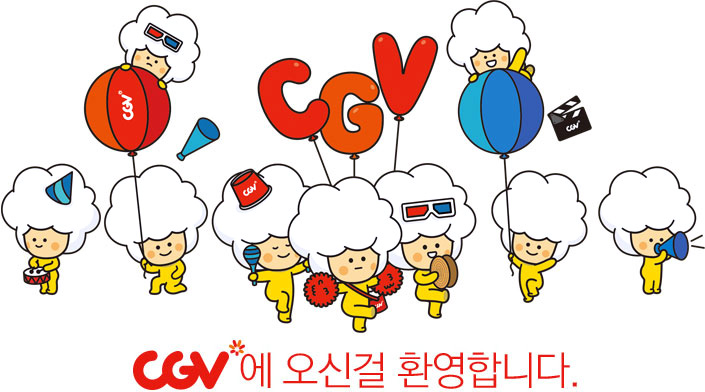
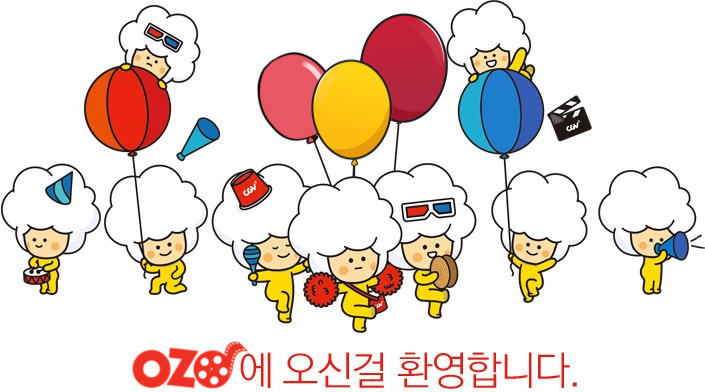
Minkyu

diff --git a/index.html b/index.html
@@ -272,7 +272,7 @@
                                 </div>
                             </div>
                             <div class="movie_info_wrap">
-                                <strong class="movieName">LE SSERAFIM COMEBACK SHOW - UNFORGIVEN in CGV</strong>
+                                <strong class="movieName">LE SSERAFIM COMEBACK SHOW - UNFORGIVEN in OZO</strong>
                                 <span>
                                     <img src="./img/eggGoldenegggreat.png" alt="Golden Egg great">
                                     ?
@@ -713,7 +713,7 @@
                                         <img src="./img/골드클래스.jpg" alt="CGV 골드클래스">
                                     </div>
                                     <div class="giftcon_info_wrap">
-                                        <span>CGV 골드클래스</span>
+                                        <span>OZO 골드클래스</span>
                                         <strong>40,000원</strong>
                                     </div>
                                 </a>
@@ -724,7 +724,7 @@
                                         <img src="./img/CGV영화관람권.jpg" alt="CGV 영화관람권">
                                     </div>
                                     <div class="giftcon_info_wrap">
-                                        <span>CGV 영화관람권</span>
+                                        <span>OZO 영화관람권</span>
                                         <strong>13,000원</strong>
                                     </div>
                                 </a>
@@ -793,7 +793,7 @@
                     <div id="noticeClient_content">
                         <div id="notice_wrap">
                             <strong>공지사항</strong>
-                            <a href="#" class="btn_link">[극장][전주고사]'24회 전주국제영화제' 대관으로 인한 CGV 프로그램 미운영 안내 </a>
+                            <a href="#" class="btn_link">[극장][전주고사]'24회 전주국제영화제' 대관으로 인한 OZO 프로그램 미운영 안내 </a>
                             <a href="#" id="notice_more" class="btn_more">더보기</a>
                         </div>
                         <div id="client_wrap">
@@ -818,7 +818,7 @@
                     </div>
                     <div id="qr_wrap">
                         <strong>앱 다운로드</strong>
-                        <span>CGV앱에서 더 편리하게 이용하세요</span>
+                        <span>OZO앱에서 더 편리하게 이용하세요</span>
                         <div class="img_wrap">
                             <img src="./img/img_qrcode.gif" alt="QR CODE">
                         </div>

diff --git a/event_4.html b/event_4.html
@@ -83,7 +83,7 @@
                     <li><a href="event_1.html">SPECIAL</a></li>
                     <li><a href="event_2.html">영화/예매</a></li>
                     <li><a href="event_3.html">멤버십/CLUB</a></li>
-                    <li><a href="event_4.html" style="color:rgb(255, 60, 0)">CGV 극장별</a></li>
+                    <li><a href="event_4.html" style="color:rgb(255, 60, 0)">OZO 극장별</a></li>
                     <li><a href="event_5.html">제휴/할인</a></li>
                 </ul>
                 <div id="submenu">
@@ -109,7 +109,7 @@
                                 <img src="img/event/cgv/evt-thum1.jpg" alt="">
                             </div>
                             <div id="evt-desc">
-                                <p>[CGV인천가정]
+                                <p>[OZO인천가정]
                                     사이트 오픈 프로모션</p>
                                 <p>2023.01.01~2023.12.31</p>
                             </div>
@@ -121,7 +121,7 @@
                                 <img src="img/event/cgv/evt-thum2.jpg" alt="">
                             </div>
                             <div id="evt-desc">
-                                <p>[CGV김포] 오픈 2주년
+                                <p>[OZO김포] 오픈 2주년
                                     고객 감사 프로모션</p>
                                 <p>2023.01.01~2023.12.31</p>
                             </div>
@@ -133,7 +133,7 @@
                                 <img src="img/event/cgv/evt-thum3.jpg" alt="">
                             </div>
                             <div id="evt-desc">
-                                <p>[CGV고양백석] 사이트
+                                <p>[OZO고양백석] 사이트
                                     오픈 프로모션</p>
                                 <p>2023.01.01~2023.12.31</p>
                             </div>
@@ -193,7 +193,7 @@
                             </div>
                             <div id="evt-desc">
                                 <p>모바일문화상품권
-                                    CGV에서 사용하는 방법!</p>
+                                    OZO에서 사용하는 방법!</p>
                                 <p>2023.01.01~2023.12.31</p>
                             </div>
                         </a>

diff --git a/event_3.html b/event_3.html
@@ -83,7 +83,7 @@
                     <li><a href="event_1.html">SPECIAL</a></li>
                     <li><a href="event_2.html">영화/예매</a></li>
                     <li><a href="event_3.html" style="color:rgb(255, 60, 0)">멤버십/CLUB</a></li>
-                    <li><a href="event_4.html">CGV 극장별</a></li>
+                    <li><a href="event_4.html">OZO 극장별</a></li>
                     <li><a href="event_5.html">제휴/할인</a></li>
                 </ul>
                 <div id="submenu">
@@ -101,7 +101,7 @@
                                 <img src="img/event/membership/evt-thum1.jpg" alt="">
                             </div>
                             <div id="evt-desc">
-                                <p>CGV X 우리카드 PLCC 출시!</p>
+                                <p>OZO X 우리카드 PLCC 출시!</p>
                                 <p>2023.01.01~2023.12.31</p>
                             </div>
                         </a>
@@ -112,7 +112,7 @@
                                 <img src="img/event/membership/evt-thum2.jpg" alt="">
                             </div>
                             <div id="evt-desc">
-                                <p>CGV우리카드 이용 시
+                                <p>OZO우리카드 이용 시
                                     캐시백 10만원 지급!</p>
                                 <p>2023.01.01~2023.12.31</p>
                             </div>
@@ -184,7 +184,7 @@
                             </div>
                             <div id="evt-desc">
                                 <p>모바일문화상품권
-                                    CGV에서 사용하는 방법!</p>
+                                    OZO에서 사용하는 방법!</p>
                                 <p>2023.01.01~2023.12.31</p>
                             </div>
                         </a>

diff --git a/event_5.html b/event_5.html
@@ -83,7 +83,7 @@
                     <li><a href="event_1.html">SPECIAL</a></li>
                     <li><a href="event_2.html">영화/예매</a></li>
                     <li><a href="event_3.html">멤버십/CLUB</a></li>
-                    <li><a href="event_4.html">CGV 극장별</a></li>
+                    <li><a href="event_4.html">OZO 극장별</a></li>
                     <li><a href="event_5.html" style="color:rgb(255, 60, 0)">제휴/할인</a></li>
                 </ul>
                 <div id="submenu">
@@ -101,7 +101,7 @@
                                 <img src="img/event/discount/evt-thum1.jpg" alt="">
                             </div>
                             <div id="evt-desc">
-                                <p>CGV X 우리카드 PLCC 출시!</p>
+                                <p>OZO X 우리카드 PLCC 출시!</p>
                                 <p>2023.01.01~2023.12.31</p>
                             </div>
                         </a>
@@ -112,7 +112,7 @@
                                 <img src="img/event/discount/evt-thum2.jpg" alt="">
                             </div>
                             <div id="evt-desc">
-                                <p>CGV우리카드 이용 시
+                                <p>OZO우리카드 이용 시
                                     캐시백 10만원 지급!</p>
                                 <p>2023.01.01~2023.12.31</p>
                             </div>
@@ -184,7 +184,7 @@
                             </div>
                             <div id="evt-desc">
                                 <p>모바일문화상품권
-                                    CGV에서 사용하는 방법!</p>
+                                    OZO에서 사용하는 방법!</p>
                                 <p>2023.01.01~2023.12.31</p>
                             </div>
                         </a>

diff --git a/event_2.html b/event_2.html
@@ -83,7 +83,7 @@
                     <li><a href="event_1.html">SPECIAL</a></li>
                     <li><a href="event_2.html" style="color:rgb(255, 60, 0)">영화/예매</a></li>
                     <li><a href="event_3.html">멤버십/CLUB</a></li>
-                    <li><a href="event_4.html">CGV 극장별</a></li>
+                    <li><a href="event_4.html">OZO 극장별</a></li>
                     <li><a href="event_5.html">제휴/할인</a></li>
                 </ul>
                 <div id="submenu">
@@ -101,7 +101,7 @@
                                 <img src="img/event/movie/evt-thum1.jpg" alt="">
                             </div>
                             <div id="evt-desc">
-                                <p>CGV X 우리카드 PLCC 출시!</p>
+                                <p>OZO X 우리카드 PLCC 출시!</p>
                                 <p>2023.01.01~2023.12.31</p>
                             </div>
                         </a>
@@ -112,7 +112,7 @@
                                 <img src="img/event/movie/evt-thum2.jpg" alt="">
                             </div>
                             <div id="evt-desc">
-                                <p>CGV우리카드 이용 시
+                                <p>OZO 우리카드 이용 시
                                     캐시백 10만원 지급!</p>
                                 <p>2023.01.01~2023.12.31</p>
                             </div>
@@ -184,7 +184,7 @@
                             </div>
                             <div id="evt-desc">
                                 <p>모바일문화상품권
-                                    CGV에서 사용하는 방법!</p>
+                                    OZO에서 사용하는 방법!</p>
                                 <p>2023.01.01~2023.12.31</p>
                             </div>
                         </a>

diff --git a/benefit.html b/benefit.html
@@ -74,7 +74,7 @@
         <div id="contents">
             <!-- EVENT 제목 영역-->
             <div id="heading-wrap">
-                <h3>CGV할인정보</h3>
+                <h3>OZO할인정보</h3>
             </div>
 
             <!-- ad img -->
@@ -125,7 +125,7 @@
                                 <img src="img/event/discount/evt-thum1.jpg" alt="">
                             </div>
                             <div id="evt-desc">
-                                <p>CGV X 우리카드 PLCC 출시!</p>
+                                <p>OZO X 우리카드 PLCC 출시!</p>
                                 <p>2023.01.01~2023.12.31</p>
                             </div>
                         </a>
@@ -136,7 +136,7 @@
                                 <img src="img/event/discount/evt-thum2.jpg" alt="">
                             </div>
                             <div id="evt-desc">
-                                <p>CGV우리카드 이용 시
+                                <p>OZO우리카드 이용 시
                                     캐시백 10만원 지급!</p>
                                 <p>2023.01.01~2023.12.31</p>
                             </div>
@@ -208,7 +208,7 @@
                             </div>
                             <div id="evt-desc">
                                 <p>모바일문화상품권
-                                    CGV에서 사용하는 방법!</p>
+                                    OZO에서 사용하는 방법!</p>
                                 <p>2023.01.01~2023.12.31</p>
                             </div>
                         </a>

diff --git a/store.html b/store.html
@@ -171,7 +171,7 @@
                                 <li>
                                     <img src="img/store/ticket1.jpg" alt="">
                                     <div id="menubox">
-                                        <p>CGV 골드클래스</p>
+                                        <p>OZO 골드클래스</p>
                                         <p>최고의 관람환경을 제공하는 <br>
                                             프리미엄 상영관</p>
                                         <h3>40,000원</h3>
@@ -182,8 +182,8 @@
                                 <li>
                                     <img src="img/store/ticket2.jpg" alt="">
                                     <div id="menubox">
-                                        <p>CGV 영화관람권</p>
-                                        <p>즐거운 경험은 CGV에서!</p>
+                                        <p>OZO 영화관람권</p>
+                                        <p>즐거운 경험은 OZO에서!</p>
                                         <h3>13,000원</h3>
                                     </div>
                                 </li>
